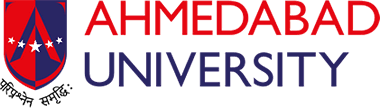
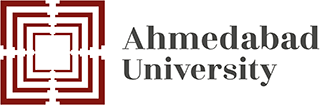
..

diff --git a/lib/all_screen/spalsh_screen.dart b/lib/all_screen/spalsh_screen.dart
@@ -30,44 +30,34 @@ class _SplashScreenState extends State<SplashScreen> {
           Column(
             mainAxisAlignment: MainAxisAlignment.center,
             children: <Widget>[
-              Expanded(
-                flex: 5,
-                child: Container(
-                  child: Column(
-                    mainAxisAlignment: MainAxisAlignment.center,
-                    children: <Widget>[
-                      CircleAvatar(
-                        backgroundColor: Colors.white,
-                        radius: 50.0,
-                        child: ImagesAssert(),
-                      ),
-
-                      Padding(padding: EdgeInsets.only(top: 10.0,bottom: 10.0),
-                      ),
-                      AnimatedOpacity(
-                        opacity: !_visible ? 1.0 : 0.0,
-                        duration: Duration(seconds: 3),
-                        child: const Text("AHMEDABAD",style: TextStyle(color: Color(0xffe71827),fontSize: 40.0),),
-
-                      ),
-                      AnimatedOpacity(
-                        opacity: !_visible ? 1.0 : 0.0,
-                        duration: Duration(seconds: 3),
-                        child: const Text("UNIVERSITY",style: TextStyle(color: Color(0xff292664),fontSize: 40.0),),
-                      ),
-                      Divider(
-                        color: Colors.transparent,
-                        height: 30.0,
-                      ),
-                      AnimatedOpacity(
-                        opacity: !_visible ? 1.0 : 0.0,
-                        duration: Duration(seconds: 3),
-                        child: const Text("Orientation Week",style: TextStyle(color: Colors.black,fontSize: 30.0),),
-                      ),
-                    ],
-                  ),
-                ),
+              SizedBox(
+                height: 300.0,
+                  width: 300.0,
+                  child: Image.asset('images/aulogo.jpg',alignment: Alignment.center)),
+              AnimatedOpacity(
+                opacity: !_visible ? 1.0 : 0.0,
+                duration: Duration(seconds: 3),
+                child: const Text("Orientation Week",style: TextStyle(color: Colors.black,fontSize: 30.0),),
               ),
+
+//                      Padding(padding: EdgeInsets.only(top: 10.0,bottom: 10.0),
+//                      ),
+//                      AnimatedOpacity(
+//                        opacity: !_visible ? 1.0 : 0.0,
+//                        duration: Duration(seconds: 3),
+//                        child: const Text("AHMEDABAD",style: TextStyle(color: Color(0xffe71827),fontSize: 40.0),),
+//
+//                      ),
+//                      AnimatedOpacity(
+//                        opacity: !_visible ? 1.0 : 0.0,
+//                        duration: Duration(seconds: 3),
+//                        child: const Text("UNIVERSITY",style: TextStyle(color: Color(0xff292664),fontSize: 40.0),),
+//                      ),
+//                      Divider(
+//                        color: Colors.transparent,
+//                        height: 30.0,
+//                      ),
+
               /*Expanded(
                 flex: 2,
                 child: Column(
@@ -95,12 +85,13 @@ class _SplashScreenState extends State<SplashScreen> {
     startTime();
   }
 }
+/*
 class ImagesAssert extends StatelessWidget{
   @override
   Widget build(BuildContext context) {
-    AssetImage assetmage = AssetImage('images/aulogo.png');
+    AssetImage assetmage = AssetImage('images/aulogo.jpg');
     Image image = Image(image: assetmage);
-    return Container(height: 90.0,alignment: Alignment.center, child:image);
+    return Container(height: 500.0,width: 100, alignment: Alignment.center, child:image);
   }
 
-}
+}*/
